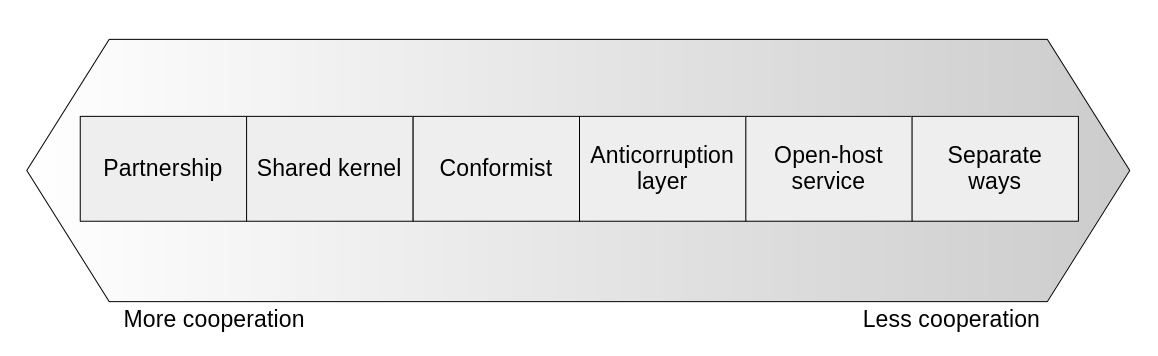
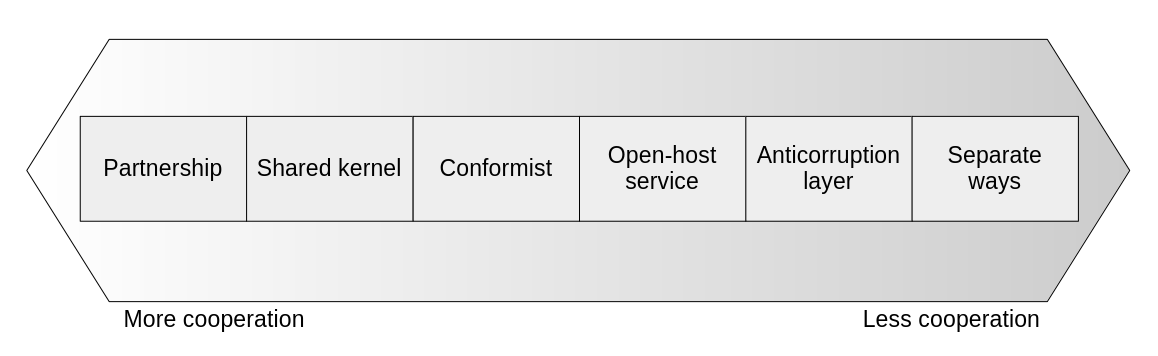
Modify some diagrams. Add cucumber example.

Changed region(s): [[0.4974, 0.4017, 0.7772, 0.4635], [0.6839, 0.4944, 0.7461, 0.5562], [0.5285, 0.4944, 0.6218, 0.5562]]

diff --git a/2025/09/high-level-system-analysis-and-design-ddd-part-1.md b/2025/09/high-level-system-analysis-and-design-ddd-part-1.md
@@ -10,6 +10,8 @@ tags:
 - books
 ---
 
+# High level system analysis and design with Domain-Driven Design
+
 > This is part 1 of a series of blog posts on Domain-Driven Design:
 >
 > 1. [High level system analysis and design with Domain-Driven Design](https://www.endpointdev.com/blog/)
@@ -51,7 +53,6 @@ With the help of domain experts, developers can identify subdomains, understand 
 
 **Supporting subdomains** on the other hand, do not provide any competitive advantage, nor are they very complex. They are however, necessary because they support the core business activities, and are fairly unique. The solutions to problems in these areas usually take the form of [CRUD](https://en.wikipedia.org/wiki/Create,_read,_update_and_delete) or [ETL](https://en.wikipedia.org/wiki/Extract,_transform,_load) oriented activities. Imagine for example populating a data warehouse, translating transactional business data into a format appropriate for analytics and business intelligence in a manufacturing corporation. Or maybe the digitization and storage of a registry of court documents for a law firm. These are behind the scenes activities that support the organizations' main businesses, but their business logic complexity is not high, and they don't really represent big selling points for the company.
 
-<!-- Maybe we can remove this paragraph? -->
 It's worth noting as well, that there may be subdomains where software solutions are not appropriate, even if they are highly complex core subdomains. They are still part of the business so it's worth identifying and considering for high level architectural design decisions. If anything, to know what parts of the business the planned software system should and should not focus on. You could have a restaurant, for example, who prides themselves in having the best desserts in the city. For their business, the recipe development activities constitute a core subdomain. This is dependent on the art and craftsmanship of the chefs. Not an area in which software solutions could help a whole lot.
 
 It's also worth noting that, just as organizations' business strategies are dynamic, so too can be their subdomain distribution. Today's generic subdomain can be tomorrow's core subdomain, and so on. For example, imagine a big retail store chain that, up until now, managed its inventory in an industry standard way. But it has grown so much that the standard way of doing things has become a bottleneck for them. So they design a new procedure for highly efficient inventory management, and that gives them an edge against competitors. Inventory management started as a generic subdomain for them, but due to an ever evolving business strategy, it became a core subdomain.
@@ -136,6 +137,9 @@ The [Agile Manifesto](https://agilemanifesto.org/) declares: "Individuals and in
 A glossary of terms is a great asset for keeping a ubiquitous language. A wiki is a good place to put this. Definitions for key concepts in the business like entities, processes and rules can be captured here. The only caveat is that documentation is static by nature, while the ubiquitous language is continually evolving. So, great care needs to be taken to keep the wiki updated at all times to reflect the latest and most complete understanding of the domain. This should not be relegated to or gate-keeped by only certain people; it should be a team effort where everyone contributes.
 
 An automated acceptance tests suite, written using [Behavior Driven Development](https://en.wikipedia.org/wiki/Behavior-driven_development) frameworks, like [Cucumber](https://cucumber.io/), is also a great way of capturing the ubiquitous language. The advantage of these tests is that they are written in plain human-readable language, not code. And while it may be a far fetched to think that non technical domain experts would be capable of writing and maintaining such tests, they certainly can read and understand them, which is a great boon. These tests speak the language they understand: the language of the business.
+
+![Cucumber tests](high-level-system-analysis-and-design-ddd-part-1/cucumber.png)
+*This is what Cucumber tests look like.*
 
 By nature of being executable and tied closely to the implementation code, there is less chance that they become out of date. This can happen more easily with static documentation written in a wiki. The disadvantage is that they require much more effort. But for the right kind of project, one where business logic is very complex or the scope is very wide, they can be very well worth the cost.
 
